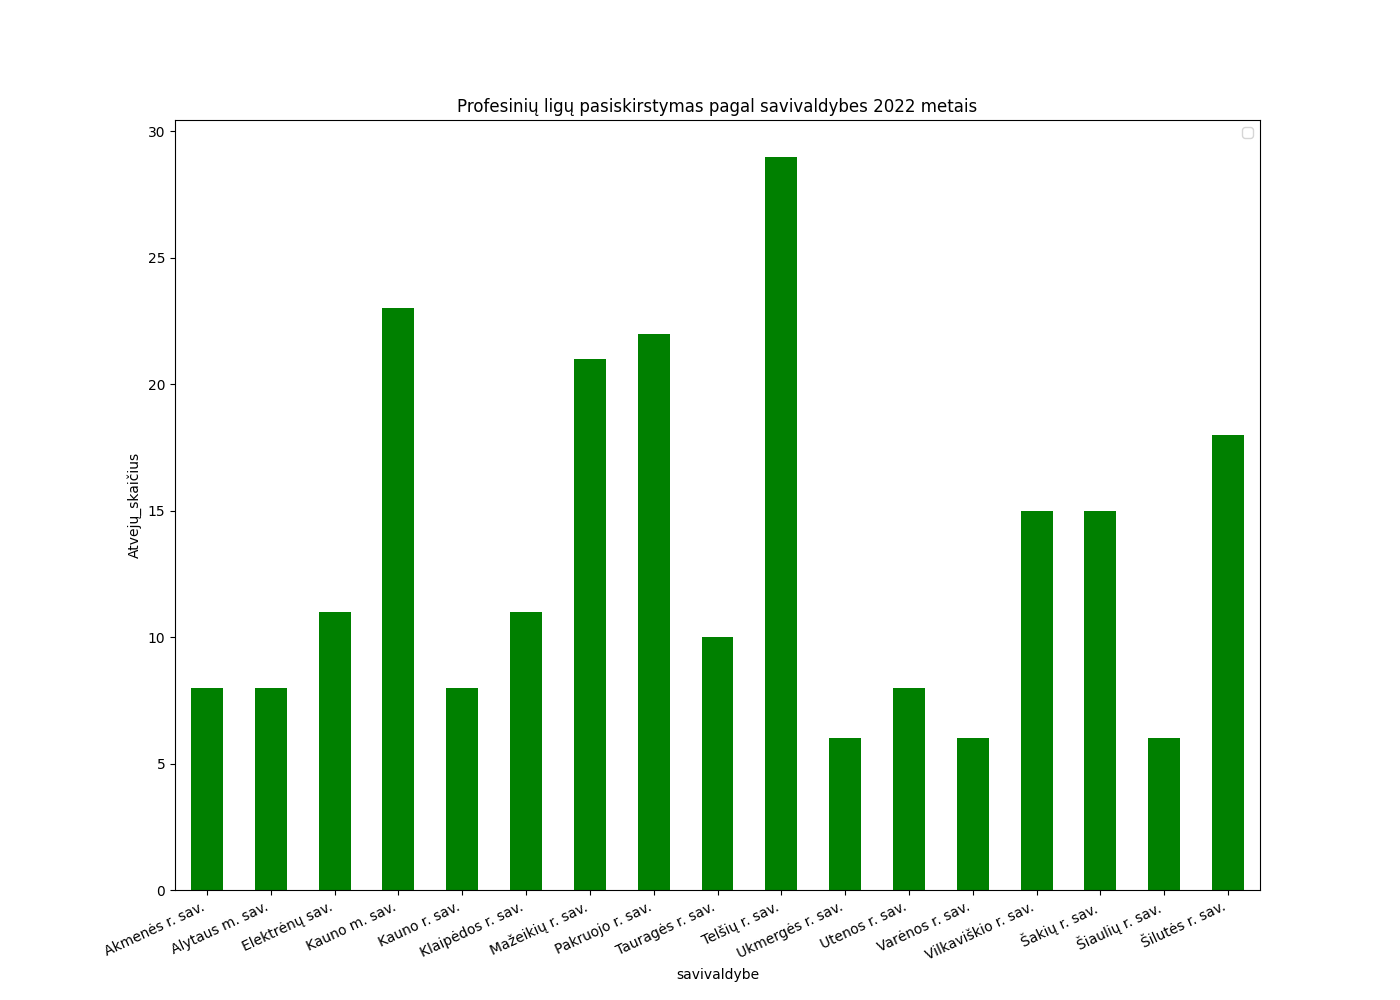
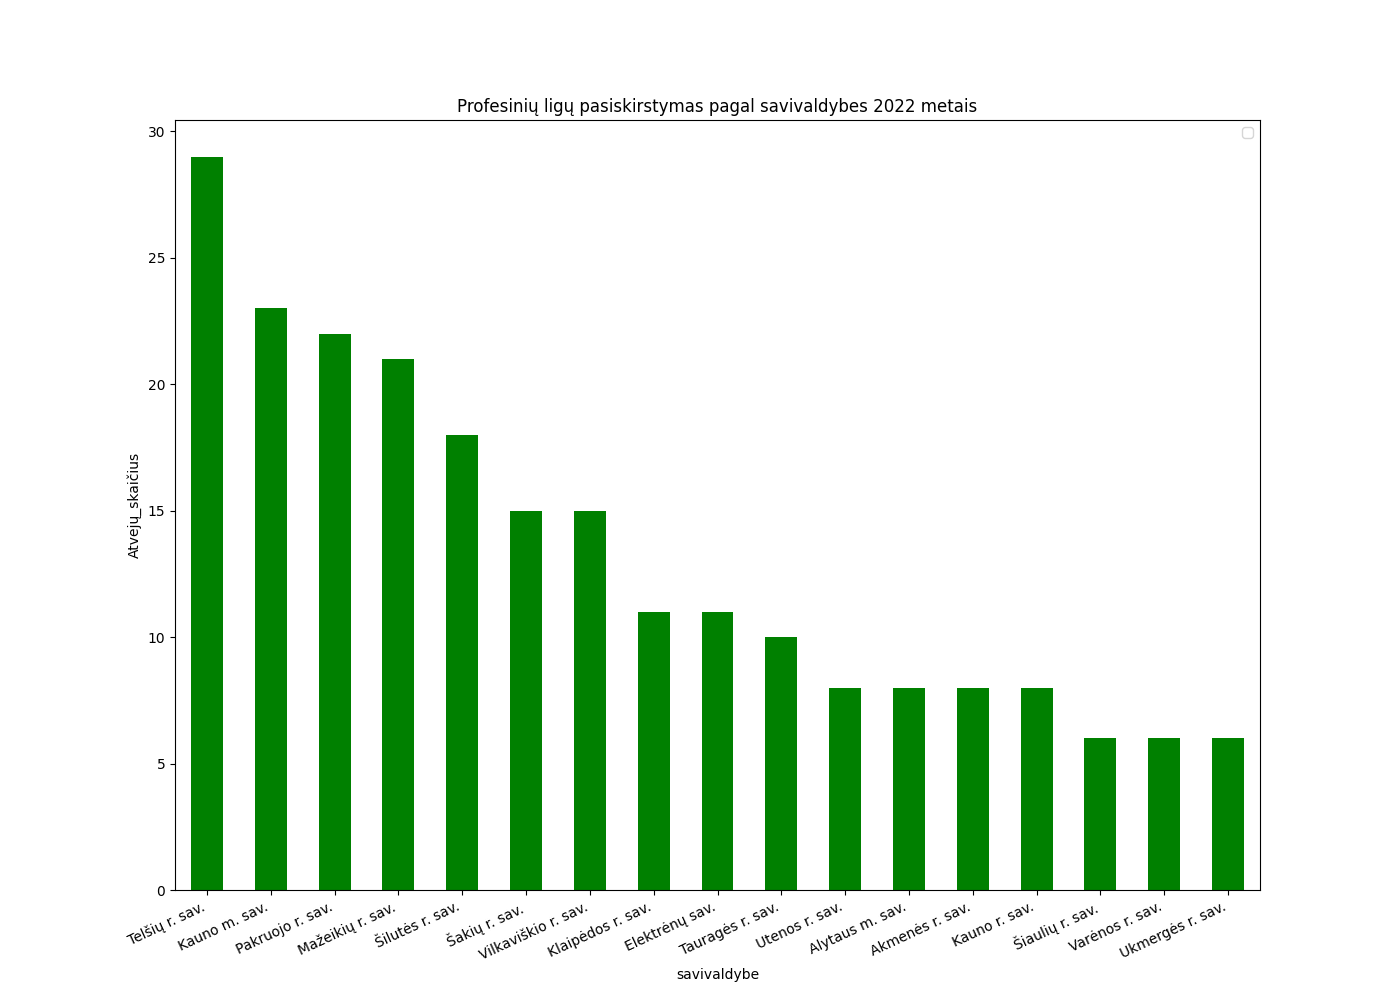
Readme atnaujinimas

diff --git a/analize.py b/analize.py
@@ -13,7 +13,8 @@ def pagal_savivaldybes():
     year = 2022
 
     pagal_regiona=Asmuo[Asmuo['year'] == year].groupby('savivaldybe')['year'].count()
-    pagal_regiona = pagal_regiona[pagal_regiona> 5]
+    pagal_regiona_sorted = pagal_regiona.sort_values(ascending=False)
+    pagal_regiona = pagal_regiona_sorted[pagal_regiona_sorted> 5]
     plt.figure(figsize=(14,10))
     pagal_regiona.plot(kind='bar', color='green')
     plt.title('Profesinių ligų pasiskirstymas pagal savivaldybes 2022 metais')

diff --git a/README.md b/README.md
@@ -26,36 +26,32 @@ Used database adapter: psycopg2
 
 Getting data from URL ("https://get.data.gov.lt/datasets/gov/hi/profesines/Asmuo").
 
-##### final_project.py
+##### analize.py
 
-This is the main project file where all analysis were made.
+This is the main project file where all analysis were made. All visuals are controlled by functions, which helps to separate all graphs in the code.
 
-Steps:
-
-1. 
-
-2. All visuals are controlled by functions (def), which helps to separate all graphs in the code.
-
-For example, if you call def "pagal_savivaldybes():" you will receive this view:
+For example, if you call "pagal_savivaldybes()" you will receive this view:
 
 ![pagal_savivaldybes_2022.png](Pictures%2Fpagal_savivaldybes_2022.png)
 
-For example if you call def "profesiniu_lig_daz(year):" you will receive this view:
+For example if you call "profesiniu_lig_daz(year)" you will receive this view:
 
 ![profesines_lig_pagal_priez.png](Pictures%2Fprofesines_lig_pagal_priez.png)
 
-For example if you call def "lytis():" you will receive this view:
+For example if you call "lytis()" you will receive this view:
 
 ![lytis_linijinis.png](Pictures%2Flytis_linijinis.png)
 
-For example if you call def "kitimas_metais():" you will receive this view:
+For example if you call "kitimas_metais()" you will receive this view:
 
 ![pokytis.png](Pictures%2Fpokytis.png)
 
-For example if you call def "regresija():" you will receive this view:
+For example if you call "regresija()" you will receive this view:
 
 ![ regresija.png](Pictures%2F%20regresija.png)
 
 ### _Conclution_
+
+An analysis of the Occupational Diseases List shows that in 2022, the municipality of Telšiai has the highest number of cases. Since 2005, the most frequent diagnosis has been Mechanical vibrations. In terms of occupational diseases by gender, males are the leading group in the period from 2014 to 2022. The graph showing the evolution of occupational diseases in the municipalities clearly shows a decrease in the number of cases. This is likely to be influenced by the rapid development of technology and occupational safety requirements. The last graph shows a selection of municipalities where the number of occupational diseases is increasing in a linear regression, i.e. there is an upward trend in the number of cases over the period shown in the graph.
 
 
